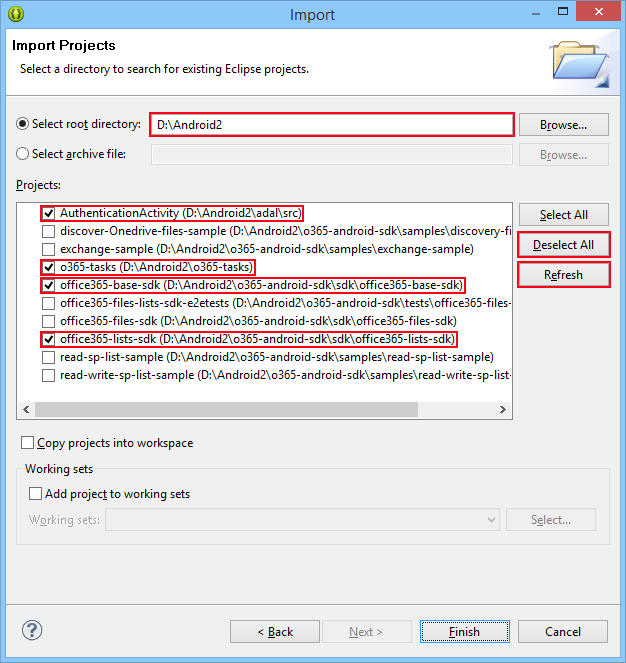
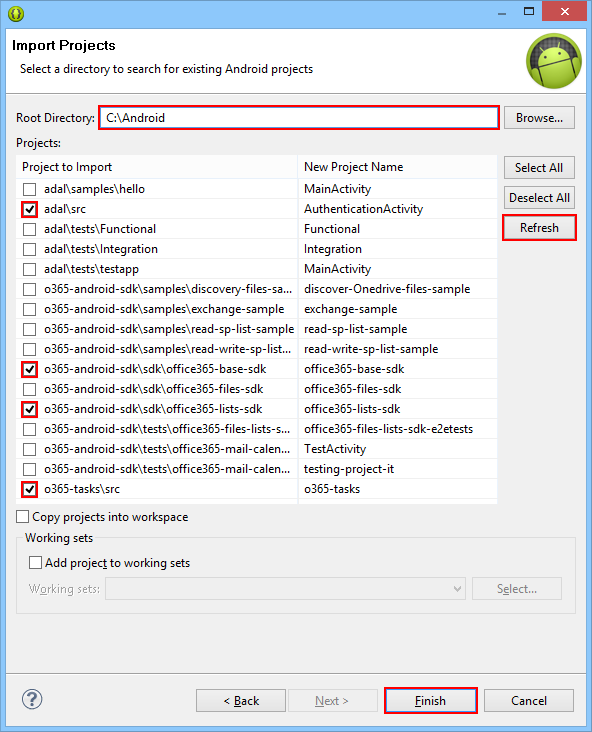
Fixed import instructions

Changed region(s): [[0.0, 0.0, 1.0, 0.8145], [0.0, 0.905, 1.0, 0.9955], [0.8514, 0.7541, 0.9122, 0.8145]]

diff --git a/06.Hook into SharePoint APIs with Android/hands-on-lab.md b/06.Hook into SharePoint APIs with Android/hands-on-lab.md
@@ -35,8 +35,6 @@ In this exercise you will set up your Eclipse workspace and then configure and r
 ###Task 1 - Preparation
 Prepare the Android SDK by downloading Android API Level 19.
 
-**Note:** The android SDK install location will be referred to later as `ANDROID_SDK`.
-
 01. Launch Eclipse. Launch the Android SDK Manager via **Window > Android SDK Manager**
 
     ![](img/201_launch_sdk_manager.png)
@@ -52,6 +50,10 @@ Prepare the Android SDK by downloading Android API Level 19.
 
 03. Click **Install packages...** and wait for the install to complete.
 
+**Note:** The android SDK install location will be referred to later using "`ANDROID_SDK`".
+By default it is included in the package with Eclipse:
+
+![](img/203_android_sdk_location.png)
 
 
 ###Task 2 - Set up your Eclipse workspace
@@ -103,22 +105,22 @@ Follow these steps to get the source code ready to build on your machine.
 
 06. Return to Eclipse to import the source code from your workspace.
 
-07. Select **File > Import**. Expand **General** and select **Existing Projects into Workspace**.
+07. Select **File > Import**. Expand **Android** and select **Existing Android Code Into Workspace**.
     Finally, click **Next**.
 
     ![](img/107_menu_import.png)
 
     ![](img/108_existing_workspace.png)
 
-08. Under **Root Directory** enter the path to your workspace. Click **Refresh** to search for Android code within
+08. For **Root Directory** enter the path to your workspace. Click **Refresh** to search for Android code within
     the workspace.
 
-08. Click **Deselect all** to clear all selections, then select the following projects:
+08. Click **Deselect All** to clear all selections, then select the following projects:
 
-    - `AuthenticationActivity`
-    - `o365-tasks`
-    - `office-365-base-sdk`
-    - `office-365-lists-sdk`
+    - `adal\src`
+    - `o365-android-sdk\sdk\office-365-base-sdk`
+    - `o365-android-sdk\sdk\office-365-lists-sdk`
+    - `o365-tasks\src`
 
     The rest of these projects are test and sample code and can be ignored.
 
